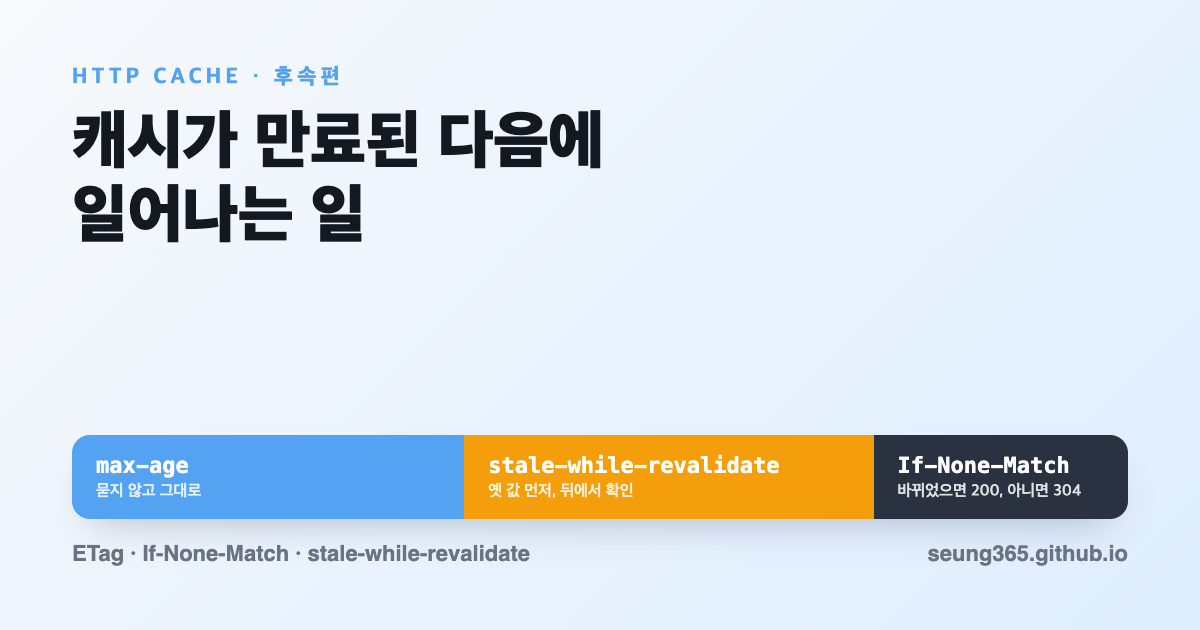
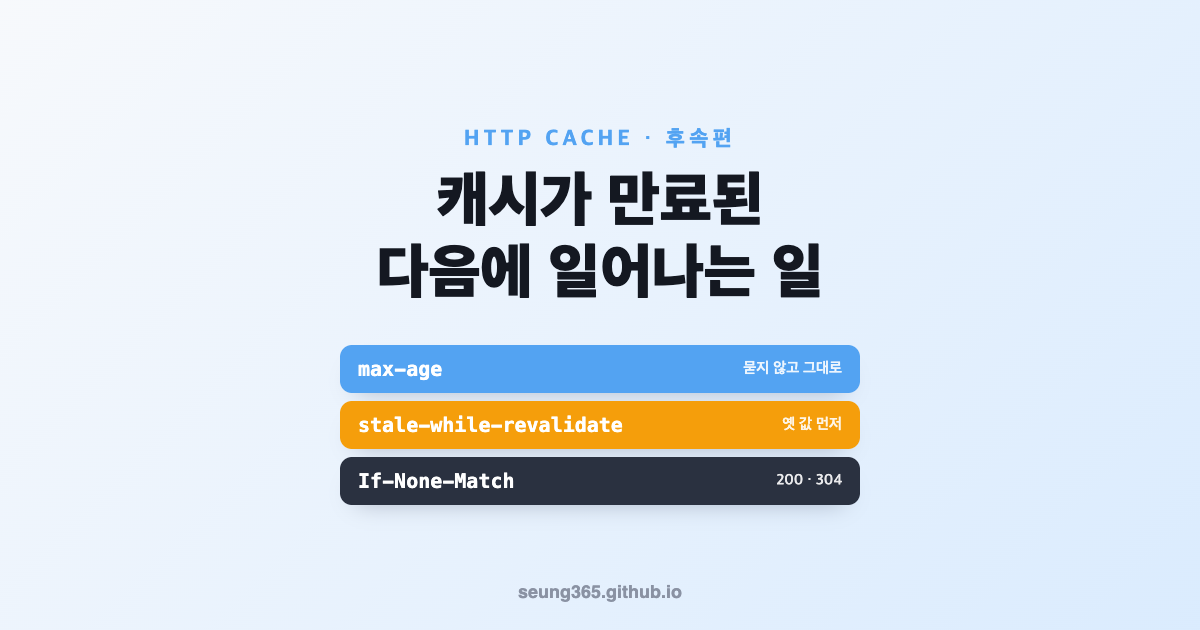
feat: 다크·라이트 전환 시 원형으로 퍼지는 모션, 캐시 글 표지 가운데 정렬
- View Transitions API로 누른 자리에서 새 테마가 퍼지게 (미지원·모션 줄이기면 즉시 전환)
- 글 목록 카드가 표지 가운데만 보여줘서 제목이 잘리던 캐시 글 표지를 가운데 배치로 다시 생성

diff --git a/src/components/LightDarkSwitch.svelte b/src/components/LightDarkSwitch.svelte
@@ -31,19 +31,43 @@ onMount(() => {
 	};
 });
 
-function switchScheme(newMode: LIGHT_DARK_MODE) {
+// 테마가 실제로 바뀔 때, 누른 자리에서 새 테마가 원형으로 퍼지게 한다 (View Transitions API).
+// 지원하지 않는 브라우저나 모션 줄이기 설정이면 그냥 바로 바뀐다
+function switchScheme(newMode: LIGHT_DARK_MODE, e?: MouseEvent) {
 	mode = newMode;
-	setTheme(newMode);
+	const root = document.documentElement;
+	const willDark =
+		newMode === DARK_MODE ||
+		(newMode === AUTO_MODE && matchMedia("(prefers-color-scheme: dark)").matches);
+	const reduced = matchMedia("(prefers-reduced-motion: reduce)").matches;
+	if (root.classList.contains("dark") === willDark || !document.startViewTransition || reduced) {
+		setTheme(newMode);
+		return;
+	}
+	// 키보드로 누르면 좌표가 0이라 버튼 가운데에서 시작
+	const rect = (e?.currentTarget as HTMLElement | null)?.getBoundingClientRect();
+	const x = e && e.detail > 0 ? e.clientX : rect ? rect.left + rect.width / 2 : innerWidth - 40;
+	const y = e && e.detail > 0 ? e.clientY : rect ? rect.top + rect.height / 2 : 40;
+	const radius = Math.hypot(Math.max(x, innerWidth - x), Math.max(y, innerHeight - y));
+	root.classList.add("theme-switching");
+	const vt = document.startViewTransition(() => setTheme(newMode));
+	vt.ready.then(() =>
+		root.animate(
+			{ clipPath: [`circle(0px at ${x}px ${y}px)`, `circle(${radius}px at ${x}px ${y}px)`] },
+			{ duration: 550, easing: "cubic-bezier(0.2, 0.7, 0.2, 1)", pseudoElement: "::view-transition-new(root)" },
+		),
+	);
+	vt.finished.finally(() => root.classList.remove("theme-switching"));
 }
 
-function toggleScheme() {
+function toggleScheme(e: MouseEvent) {
 	let i = 0;
 	for (; i < seq.length; i++) {
 		if (seq[i] === mode) {
 			break;
 		}
 	}
-	switchScheme(seq[(i + 1) % seq.length]);
+	switchScheme(seq[(i + 1) % seq.length], e);
 }
 
 function showPanel() {
@@ -75,21 +99,21 @@ function hidePanel() {
         <div class="card-base float-panel p-2">
             <button class="flex transition whitespace-nowrap items-center !justify-start w-full btn-plain scale-animation rounded-lg h-9 px-3 font-medium active:scale-95 mb-0.5"
                     class:current-theme-btn={mode === LIGHT_MODE}
-                    onclick={() => switchScheme(LIGHT_MODE)}
+                    onclick={(e) => switchScheme(LIGHT_MODE, e)}
             >
                 <Icon icon="material-symbols:wb-sunny-outline-rounded" class="text-[1.25rem] mr-3"></Icon>
                 {i18n(I18nKey.lightMode)}
             </button>
             <button class="flex transition whitespace-nowrap items-center !justify-start w-full btn-plain scale-animation rounded-lg h-9 px-3 font-medium active:scale-95 mb-0.5"
                     class:current-theme-btn={mode === DARK_MODE}
-                    onclick={() => switchScheme(DARK_MODE)}
+                    onclick={(e) => switchScheme(DARK_MODE, e)}
             >
                 <Icon icon="material-symbols:dark-mode-outline-rounded" class="text-[1.25rem] mr-3"></Icon>
                 {i18n(I18nKey.darkMode)}
             </button>
             <button class="flex transition whitespace-nowrap items-center !justify-start w-full btn-plain scale-animation rounded-lg h-9 px-3 font-medium active:scale-95"
                     class:current-theme-btn={mode === AUTO_MODE}
-                    onclick={() => switchScheme(AUTO_MODE)}
+                    onclick={(e) => switchScheme(AUTO_MODE, e)}
             >
                 <Icon icon="material-symbols:radio-button-partial-outline" class="text-[1.25rem] mr-3"></Icon>
                 {i18n(I18nKey.systemMode)}

diff --git a/src/styles/main.css b/src/styles/main.css
@@ -313,3 +313,15 @@ html.dark {
     margin-right: 0.35rem;
     vertical-align: middle;
 }
+
+/* 테마 전환 모션: 새 테마가 원형으로 퍼진다 (LightDarkSwitch.svelte). 기본 페이드는 끄고,
+   전환하는 동안은 색 transition도 꺼서 새 화면이 처음부터 완성된 색으로 찍히게 한다 */
+:root.theme-switching::view-transition-old(root),
+:root.theme-switching::view-transition-new(root) {
+    animation: none;
+    mix-blend-mode: normal;
+}
+:root.theme-switching,
+:root.theme-switching * {
+    transition: none !important;
+}
